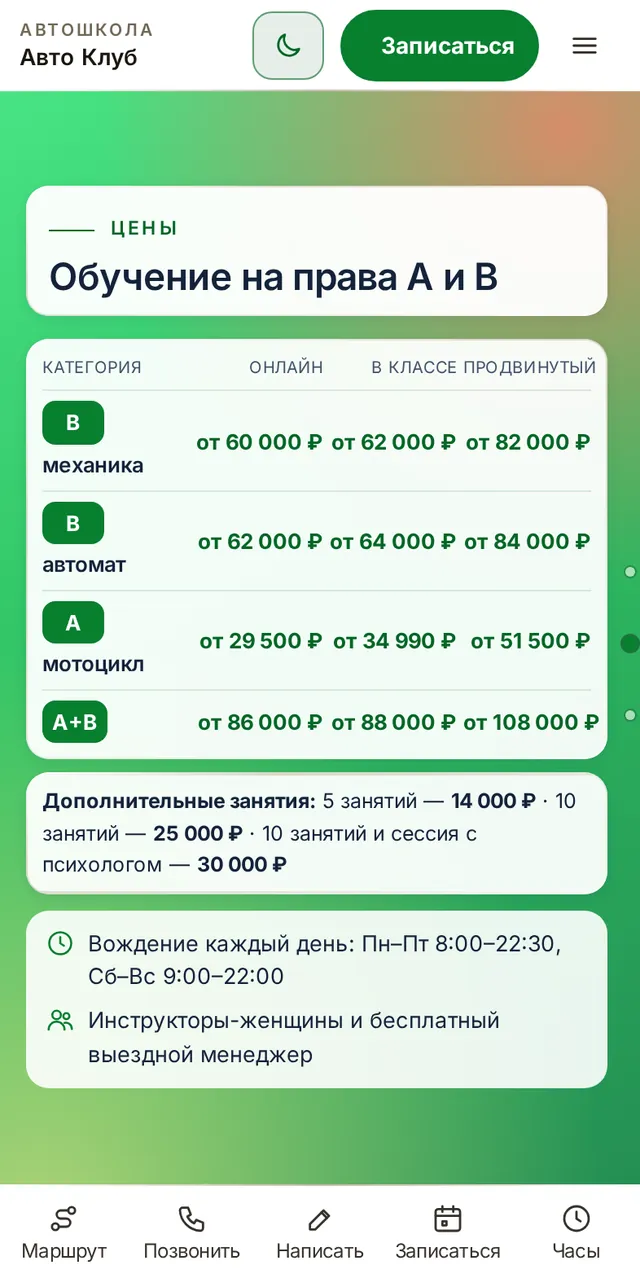
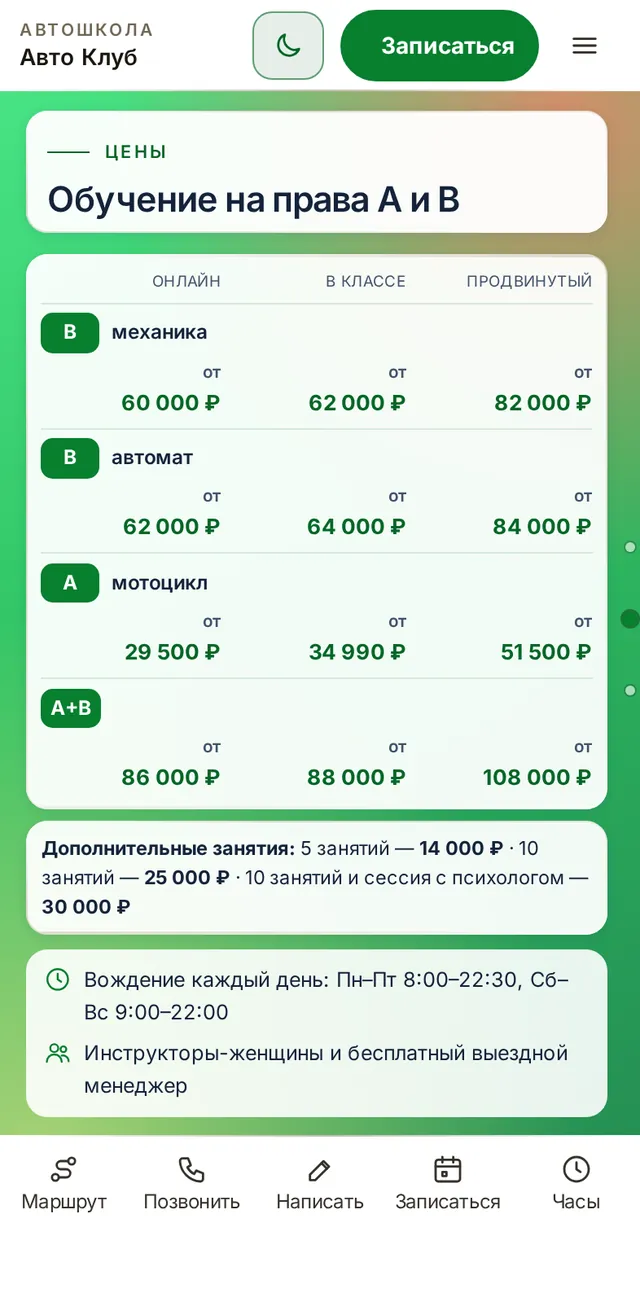
Текст не выходит за плашки: название первого экрана подгоняется под плашку, витрина показывает экраны целиком; цены на узких телефонах

diff --git a/vitrina/index.html b/vitrina/index.html
@@ -31,13 +31,14 @@ h1{text-wrap:balance;font-size:clamp(30px,3.4vw,48px);line-height:1.08;letter-sp
 .stage{position:relative;width:100%;aspect-ratio:16/11.2}
 .dv{position:absolute}
 .dv img{display:block;width:100%;height:100%;object-fit:cover;object-position:center top}
+.mon .scr img,.lap .scr img{height:auto}
 .mon{left:18%;top:0;width:68%}
-.mon .scr{aspect-ratio:16/9;padding:1.1%;background:#0e1116;border-radius:14px;box-shadow:0 30px 60px -20px rgba(20,35,58,.35)}
+.mon .scr{padding:1.1%;background:#0e1116;border-radius:14px;box-shadow:0 30px 60px -20px rgba(20,35,58,.35)}
 .mon .scr img{border-radius:6px}
 .mon .neck{width:14%;aspect-ratio:1/.95;margin:0 auto;background:linear-gradient(90deg,#c9d0d8,#eef1f4 45%,#c3cad2);clip-path:polygon(18% 0,82% 0,100% 100%,0 100%)}
 .mon .foot{width:36%;aspect-ratio:36/1.5;margin:-1px auto 0;border-radius:6px 6px 3px 3px;background:linear-gradient(180deg,#e9edf1,#b9c1ca);box-shadow:0 12px 20px -8px rgba(20,35,58,.4)}
 .lap{left:0;bottom:4%;width:46%}
-.lap .scr{aspect-ratio:16/10;padding:2.2% 2.2% 3%;background:#0b0d11;border-radius:16px 16px 4px 4px;position:relative;box-shadow:0 0 0 1px #2a2f37 inset}
+.lap .scr{padding:2.2% 2.2% 3%;background:#0b0d11;border-radius:16px 16px 4px 4px;position:relative;box-shadow:0 0 0 1px #2a2f37 inset}
 .lap .scr::before{content:"";position:absolute;top:1%;left:50%;width:.9%;aspect-ratio:1;border-radius:50%;background:#2b3442;transform:translateX(-50%)}
 .lap .scr img{border-radius:3px}
 .lap .base{position:relative;height:0;padding-bottom:3.2%;margin:0 -7%;background:linear-gradient(180deg,#e7ebef 0,#c8cfd7 60%,#9aa3ad 100%);border-radius:0 0 18px 18px/0 0 60% 60%;box-shadow:0 22px 30px -14px rgba(20,35,58,.45)}
@@ -80,7 +81,7 @@ h1{text-wrap:balance;font-size:clamp(30px,3.4vw,48px);line-height:1.08;letter-sp
   <div class="stage" id="stage" aria-label="Новый сайт на компьютере, ноутбуке и телефоне">
     <div class="dv mon"><div class="scr"><img src="img/monitor.webp?v=2" alt="" width="1600" height="900"></div><div class="neck"></div><div class="foot"></div></div>
     <div class="dv lap"><div class="scr"><img src="img/laptop.webp?v=2" alt="" width="1280" height="800"></div><div class="base"></div></div>
-    <div class="dv ph" id="ph"><div class="ss-phone z-phone" data-frame="pro" style="width: 340px; height: 714.953px; padding: 2.38318px; border-radius: 61.1682px; --ps: 0.794392523364486px;"><svg class="ss-phone__bands" width="100%" height="100%" aria-hidden="true"><defs><linearGradient id="ph-band" x1="0.2" y1="0" x2="0.8" y2="1"><stop offset="0" style="stop-color: var(--ss-phone-band-1);"></stop><stop offset="0.22" style="stop-color: var(--ss-phone-band-2);"></stop><stop offset="0.48" style="stop-color: var(--ss-phone-band-3);"></stop><stop offset="0.74" style="stop-color: var(--ss-phone-band-4);"></stop><stop offset="1" style="stop-color: var(--ss-phone-band-5);"></stop></linearGradient><linearGradient id="ph-clay" x1="0" y1="0" x2="0" y2="1"><stop offset="0" style="stop-color: var(--ss-phone-clay-top);"></stop><stop offset="1" style="stop-color: var(--ss-phone-clay-bottom);"></stop></linearGradient></defs><g transform="translate(10.327102803738317 10.327102803738317)" stroke-linejoin="round"><path d="M262.94 0.00L267.09 0.06L270.49 0.24L273.65 0.53L276.65 0.94L279.51 1.47L282.27 2.11L284.93 2.87L287.50 3.74L289.97 4.72L292.36 5.81L294.65 7.02L296.85 8.33L298.96 9.75L300.98 11.27L302.90 12.90L304.72 14.62L306.45 16.45L308.08 18.37L309.60 20.38L311.02 22.49L312.33 24.70L313.53 26.99L314.63 29.37L315.61 31.85L316.48 34.41L317.24 37.07L317.88 39.83L318.41 42.70L318.82 45.69L319.11 48.85L319.29 52.25L319.35 56.40L319.35 637.90L319.29 642.04L319.11 645.45L318.82 648.60L318.41 651.60L317.88 654.47L317.24 657.23L316.48 659.89L315.61 662.45L314.63 664.92L313.53 667.31L312.33 669.60L311.02 671.80L309.60 673.91L308.08 675.93L306.45 677.85L304.72 679.68L302.90 681.40L300.98 683.03L298.96 684.55L296.85 685.97L294.65 687.28L292.36 688.49L289.97 689.58L287.50 690.56L284.93 691.43L282.27 692.19L279.51 692.83L276.65 693.36L273.65 693.77L270.49 694.06L267.09 694.24L262.94 694.30L56.40 694.30L52.25 694.24L48.85 694.06L45.69 693.77L42.70 693.36L39.83 692.83L37.07 692.19L34.41 691.43L31.85 690.56L29.37 689.58L26.99 688.49L24.70 687.28L22.49 685.97L20.38 684.55L18.37 683.03L16.45 681.40L14.62 679.68L12.90 677.85L11.27 675.93L9.75 673.91L8.33 671.80L7.02 669.60L5.81 667.31L4.72 664.92L3.74 662.45L2.87 659.89L2.11 657.23L1.47 654.47L0.94 651.60L0.53 648.60L0.24 645.45L0.06 642.04L0.00 637.90L0.00 56.40L0.06 52.25L0.24 48.85L0.53 45.69L0.94 42.70L1.47 39.83L2.11 37.07L2.87 34.41L3.74 31.85L4.72 29.37L5.81 26.99L7.02 24.70L8.33 22.49L9.75 20.38L11.27 18.37L12.90 16.45L14.62 14.62L16.45 12.90L18.37 11.27L20.38 9.75L22.49 8.33L24.70 7.02L26.99 5.81L29.37 4.72L31.85 3.74L34.41 2.87L37.07 2.11L39.83 1.47L42.70 0.94L45.69 0.53L48.85 0.24L52.25 0.06L56.40 0.00Z" fill="none" stroke-width="20.654205607476634" stroke="url(#ph-band)"></path><path d="M262.94 0.00L267.09 0.06L270.49 0.24L273.65 0.53L276.65 0.94L279.51 1.47L282.27 2.11L284.93 2.87L287.50 3.74L289.97 4.72L292.36 5.81L294.65 7.02L296.85 8.33L298.96 9.75L300.98 11.27L302.90 12.90L304.72 14.62L306.45 16.45L308.08 18.37L309.60 20.38L311.02 22.49L312.33 24.70L313.53 26.99L314.63 29.37L315.61 31.85L316.48 34.41L317.24 37.07L317.88 39.83L318.41 42.70L318.82 45.69L319.11 48.85L319.29 52.25L319.35 56.40L319.35 637.90L319.29 642.04L319.11 645.45L318.82 648.60L318.41 651.60L317.88 654.47L317.24 657.23L316.48 659.89L315.61 662.45L314.63 664.92L313.53 667.31L312.33 669.60L311.02 671.80L309.60 673.91L308.08 675.93L306.45 677.85L304.72 679.68L302.90 681.40L300.98 683.03L298.96 684.55L296.85 685.97L294.65 687.28L292.36 688.49L289.97 689.58L287.50 690.56L284.93 691.43L282.27 692.19L279.51 692.83L276.65 693.36L273.65 693.77L270.49 694.06L267.09 694.24L262.94 694.30L56.40 694.30L52.25 694.24L48.85 694.06L45.69 693.77L42.70 693.36L39.83 692.83L37.07 692.19L34.41 691.43L31.85 690.56L29.37 689.58L26.99 688.49L24.70 687.28L22.49 685.97L20.38 684.55L18.37 683.03L16.45 681.40L14.62 679.68L12.90 677.85L11.27 675.93L9.75 673.91L8.33 671.80L7.02 669.60L5.81 667.31L4.72 664.92L3.74 662.45L2.87 659.89L2.11 657.23L1.47 654.47L0.94 651.60L0.53 648.60L0.24 645.45L0.06 642.04L0.00 637.90L0.00 56.40L0.06 52.25L0.24 48.85L0.53 45.69L0.94 42.70L1.47 39.83L2.11 37.07L2.87 34.41L3.74 31.85L4.72 29.37L5.81 26.99L7.02 24.70L8.33 22.49L9.75 20.38L11.27 18.37L12.90 16.45L14.62 14.62L16.45 12.90L18.37 11.27L20.38 9.75L22.49 8.33L24.70 7.02L26.99 5.81L29.37 4.72L31.85 3.74L34.41 2.87L37.07 2.11L39.83 1.47L42.70 0.94L45.69 0.53L48.85 0.24L52.25 0.06L56.40 0.00Z" fill="none" stroke-width="15.88785046728972" style="stroke: var(--ss-phone-rim);"></path><path d="M262.94 0.00L267.09 0.06L270.49 0.24L273.65 0.53L276.65 0.94L279.51 1.47L282.27 2.11L284.93 2.87L287.50 3.74L289.97 4.72L292.36 5.81L294.65 7.02L296.85 8.33L298.96 9.75L300.98 11.27L302.90 12.90L304.72 14.62L306.45 16.45L308.08 18.37L309.60 20.38L311.02 22.49L312.33 24.70L313.53 26.99L314.63 29.37L315.61 31.85L316.48 34.41L317.24 37.07L317.88 39.83L318.41 42.70L318.82 45.69L319.11 48.85L319.29 52.25L319.35 56.40L319.35 637.90L319.29 642.04L319.11 645.45L318.82 648.60L318.41 651.60L317.88 654.47L317.24 657.23L316.48 659.89L315.61 662.45L314.63 664.92L313.53 667.31L312.33 669.60L311.02 671.80L309.60 673.91L308.08 675.93L306.45 677.85L304.72 679.68L302.90 681.40L300.98 683.03L298.96 684.55L296.85 685.97L294.65 687.28L292.36 688.49L289.97 689.58L287.50 690.56L284.93 691.43L282.27 692.19L279.51 692.83L276.65 693.36L273.65 693.77L270.49 694.06L267.09 694.24L262.94 694.30L56.40 694.30L52.25 694.24L48.85 694.06L45.69 693.77L42.70 693.36L39.83 692.83L37.07 692.19L34.41 691.43L31.85 690.56L29.37 689.58L26.99 688.49L24.70 687.28L22.49 685.97L20.38 684.55L18.37 683.03L16.45 681.40L14.62 679.68L12.90 677.85L11.27 675.93L9.75 673.91L8.33 671.80L7.02 669.60L5.81 667.31L4.72 664.92L3.74 662.45L2.87 659.89L2.11 657.23L1.47 654.47L0.94 651.60L0.53 648.60L0.24 645.45L0.06 642.04L0.00 637.90L0.00 56.40L0.06 52.25L0.24 48.85L0.53 45.69L0.94 42.70L1.47 39.83L2.11 37.07L2.87 34.41L3.74 31.85L4.72 29.37L5.81 26.99L7.02 24.70L8.33 22.49L9.75 20.38L11.27 18.37L12.90 16.45L14.62 14.62L16.45 12.90L18.37 11.27L20.38 9.75L22.49 8.33L24.70 7.02L26.99 5.81L29.37 4.72L31.85 3.74L34.41 2.87L37.07 2.11L39.83 1.47L42.70 0.94L45.69 0.53L48.85 0.24L52.25 0.06L56.40 0.00Z" fill="none" stroke-width="14.69626168224299" style="stroke: var(--ss-phone-glass);"></path></g></svg><div class="ss-phone__glass" style="padding: 7.94393px; border-radius: 58.785px;"><div class="ss-phone__window" style="width: 319.346px; height: 694.299px; clip-path: path(&quot;M 262.94 0 L 267.09 0.06 L 270.49 0.24 L 273.65 0.53 L 276.65 0.94 L 279.51 1.47 L 282.27 2.11 L 284.93 2.87 L 287.5 3.74 L 289.97 4.72 L 292.36 5.81 L 294.65 7.02 L 296.85 8.33 L 298.96 9.75 L 300.98 11.27 L 302.9 12.9 L 304.72 14.62 L 306.45 16.45 L 308.08 18.37 L 309.6 20.38 L 311.02 22.49 L 312.33 24.7 L 313.53 26.99 L 314.63 29.37 L 315.61 31.85 L 316.48 34.41 L 317.24 37.07 L 317.88 39.83 L 318.41 42.7 L 318.82 45.69 L 319.11 48.85 L 319.29 52.25 L 319.35 56.4 L 319.35 637.9 L 319.29 642.04 L 319.11 645.45 L 318.82 648.6 L 318.41 651.6 L 317.88 654.47 L 317.24 657.23 L 316.48 659.89 L 315.61 662.45 L 314.63 664.92 L 313.53 667.31 L 312.33 669.6 L 311.02 671.8 L 309.6 673.91 L 308.08 675.93 L 306.45 677.85 L 304.72 679.68 L 302.9 681.4 L 300.98 683.03 L 298.96 684.55 L 296.85 685.97 L 294.65 687.28 L 292.36 688.49 L 289.97 689.58 L 287.5 690.56 L 284.93 691.43 L 282.27 692.19 L 279.51 692.83 L 276.65 693.36 L 273.65 693.77 L 270.49 694.06 L 267.09 694.24 L 262.94 694.3 L 56.4 694.3 L 52.25 694.24 L 48.85 694.06 L 45.69 693.77 L 42.7 693.36 L 39.83 692.83 L 37.07 692.19 L 34.41 691.43 L 31.85 690.56 L 29.37 689.58 L 26.99 688.49 L 24.7 687.28 L 22.49 685.97 L 20.38 684.55 L 18.37 683.03 L 16.45 681.4 L 14.62 679.68 L 12.9 677.85 L 11.27 675.93 L 9.75 673.91 L 8.33 671.8 L 7.02 669.6 L 5.81 667.31 L 4.72 664.92 L 3.74 662.45 L 2.87 659.89 L 2.11 657.23 L 1.47 654.47 L 0.94 651.6 L 0.53 648.6 L 0.24 645.45 L 0.06 642.04 L 0 637.9 L 0 56.4 L 0.06 52.25 L 0.24 48.85 L 0.53 45.69 L 0.94 42.7 L 1.47 39.83 L 2.11 37.07 L 2.87 34.41 L 3.74 31.85 L 4.72 29.37 L 5.81 26.99 L 7.02 24.7 L 8.33 22.49 L 9.75 20.38 L 11.27 18.37 L 12.9 16.45 L 14.62 14.62 L 16.45 12.9 L 18.37 11.27 L 20.38 9.75 L 22.49 8.33 L 24.7 7.02 L 26.99 5.81 L 29.37 4.72 L 31.85 3.74 L 34.41 2.87 L 37.07 2.11 L 39.83 1.47 L 42.7 0.94 L 45.69 0.53 L 48.85 0.24 L 52.25 0.06 L 56.4 0 Z&quot;);"><div class="ss-phone__screen" style="width: 402px; height: 874px; transform: scale(0.794393); --ss-screen-r: 64px;"><div class="ss-phone__status"><span class="ss-phone__time">10:02</span><span class="ss-phone__glyphs"><svg viewBox="0 0 20.33 13.67" width="20.33" height="13.67" class="ss-phone__glyph ss-phone__signal"><rect x="0" y="7.34" width="3.333" height="6.33" rx="1.667" fill="currentColor"></rect><rect x="5.667" y="5" width="3.333" height="8.67" rx="1.667" fill="currentColor"></rect><rect x="11.334" y="2.67" width="3.333" height="11" rx="1.667" fill="currentColor"></rect><rect x="17.000999999999998" y="0" width="3.333" height="13.67" rx="1.667" fill="currentColor"></rect></svg><svg viewBox="0 0 19.33 14.33" width="19.33" height="14.33" class="ss-phone__glyph ss-phone__wifi"><path fill-rule="evenodd" fill="currentColor" d="M0.415933 5.54283C0.902185 6.04412 1.66017 5.95818 2.27513 5.41393C4.30595 3.58064 6.83731 2.63535 9.66901 2.63535C12.5007 2.63535 15.0464 3.60928 17.0629 5.41393C17.6636 5.97251 18.4215 6.0298 18.9221 5.54283C19.4226 5.02722 19.4942 4.2538 18.9793 3.70954C16.8341 1.51819 13.3302 0 9.66901 0C6.00783 0 2.48965 1.53251 0.358727 3.72387C-0.156127 4.2538 -0.0989213 5.02722 0.415933 5.55715L0.415933 5.54283ZM3.94841 9.13779C4.50617 9.68205 5.22124 9.62476 5.85051 9.10915C6.88022 8.29276 8.25316 7.73418 9.66901 7.7485C11.0706 7.7485 12.4435 8.29276 13.4875 9.12347C14.1168 9.63908 14.8605 9.66773 15.4039 9.12347C15.9331 8.57921 16.0189 7.7485 15.4611 7.23289C14.0739 5.98683 11.9859 5.11315 9.68332 5.11315C7.38077 5.11315 5.27845 5.98683 3.9055 7.23289C3.41925 7.69121 3.31914 8.47896 3.96271 9.13779L3.94841 9.13779ZM8.72511 13.8929C9.34008 14.4801 9.98365 14.4801 10.5986 13.8929L11.757 12.7757C12.372 12.1742 12.5007 11.4151 11.7999 10.8995C11.2136 10.4841 10.4699 10.212 9.66901 10.212C8.86813 10.212 8.11015 10.4841 7.53809 10.9138C6.83731 11.4151 6.98033 12.1885 7.59529 12.7757L8.73942 13.8929L8.72511 13.8929Z"></path></svg><svg viewBox="0 0 29.33 13.67" width="29.33" height="13.67" class="ss-phone__glyph ss-phone__battery"><path fill="currentColor" d="M0 6.4C0 4.15979 0 3.03969 0.435974 2.18404C0.819467 1.43139 1.43139 0.819467 2.18404 0.435974C3.03969 0 4.15979 0 6.4 0L19.933 0C22.1732 0 23.2933 0 24.149 0.435974C24.9016 0.819467 25.5135 1.43139 25.897 2.18404C26.333 3.03969 26.333 4.15979 26.333 6.4L26.333 7.26666C26.333 9.50687 26.333 10.627 25.897 11.4826C25.5135 12.2353 24.9016 12.8472 24.149 13.2307C23.2933 13.6667 22.1732 13.6667 19.933 13.6667L6.4 13.6667C4.15979 13.6667 3.03969 13.6667 2.18404 13.2307C1.43139 12.8472 0.819467 12.2353 0.435974 11.4826C0 10.627 0 9.50687 0 7.26666L0 6.4Z"></path><path fill-rule="evenodd" fill="currentColor" transform="translate(27.33 4.33)" d="M0 0L0 5C0.601505 4.8625 2 3.75 2 2.5C2 1.25 0.601505 0.1375 0 0Z"></path></svg></span></div><span class="ss-phone__island"></span><div class="ss-phone__content" data-status="true"><img class="ph-shot" src="img/phone.webp?v=2" alt="Новый сайт автошколы «Авто Клуб» на телефоне" width="393" height="790"></div><span class="ss-phone__home"></span></div></div></div></div></div>
+    <div class="dv ph" id="ph"><div class="ss-phone z-phone" data-frame="pro" style="width: 340px; height: 714.953px; padding: 2.38318px; border-radius: 61.1682px; --ps: 0.794392523364486px;"><svg class="ss-phone__bands" width="100%" height="100%" aria-hidden="true"><defs><linearGradient id="ph-band" x1="0.2" y1="0" x2="0.8" y2="1"><stop offset="0" style="stop-color: var(--ss-phone-band-1);"></stop><stop offset="0.22" style="stop-color: var(--ss-phone-band-2);"></stop><stop offset="0.48" style="stop-color: var(--ss-phone-band-3);"></stop><stop offset="0.74" style="stop-color: var(--ss-phone-band-4);"></stop><stop offset="1" style="stop-color: var(--ss-phone-band-5);"></stop></linearGradient><linearGradient id="ph-clay" x1="0" y1="0" x2="0" y2="1"><stop offset="0" style="stop-color: var(--ss-phone-clay-top);"></stop><stop offset="1" style="stop-color: var(--ss-phone-clay-bottom);"></stop></linearGradient></defs><g transform="translate(10.327102803738317 10.327102803738317)" stroke-linejoin="round"><path d="M262.94 0.00L267.09 0.06L270.49 0.24L273.65 0.53L276.65 0.94L279.51 1.47L282.27 2.11L284.93 2.87L287.50 3.74L289.97 4.72L292.36 5.81L294.65 7.02L296.85 8.33L298.96 9.75L300.98 11.27L302.90 12.90L304.72 14.62L306.45 16.45L308.08 18.37L309.60 20.38L311.02 22.49L312.33 24.70L313.53 26.99L314.63 29.37L315.61 31.85L316.48 34.41L317.24 37.07L317.88 39.83L318.41 42.70L318.82 45.69L319.11 48.85L319.29 52.25L319.35 56.40L319.35 637.90L319.29 642.04L319.11 645.45L318.82 648.60L318.41 651.60L317.88 654.47L317.24 657.23L316.48 659.89L315.61 662.45L314.63 664.92L313.53 667.31L312.33 669.60L311.02 671.80L309.60 673.91L308.08 675.93L306.45 677.85L304.72 679.68L302.90 681.40L300.98 683.03L298.96 684.55L296.85 685.97L294.65 687.28L292.36 688.49L289.97 689.58L287.50 690.56L284.93 691.43L282.27 692.19L279.51 692.83L276.65 693.36L273.65 693.77L270.49 694.06L267.09 694.24L262.94 694.30L56.40 694.30L52.25 694.24L48.85 694.06L45.69 693.77L42.70 693.36L39.83 692.83L37.07 692.19L34.41 691.43L31.85 690.56L29.37 689.58L26.99 688.49L24.70 687.28L22.49 685.97L20.38 684.55L18.37 683.03L16.45 681.40L14.62 679.68L12.90 677.85L11.27 675.93L9.75 673.91L8.33 671.80L7.02 669.60L5.81 667.31L4.72 664.92L3.74 662.45L2.87 659.89L2.11 657.23L1.47 654.47L0.94 651.60L0.53 648.60L0.24 645.45L0.06 642.04L0.00 637.90L0.00 56.40L0.06 52.25L0.24 48.85L0.53 45.69L0.94 42.70L1.47 39.83L2.11 37.07L2.87 34.41L3.74 31.85L4.72 29.37L5.81 26.99L7.02 24.70L8.33 22.49L9.75 20.38L11.27 18.37L12.90 16.45L14.62 14.62L16.45 12.90L18.37 11.27L20.38 9.75L22.49 8.33L24.70 7.02L26.99 5.81L29.37 4.72L31.85 3.74L34.41 2.87L37.07 2.11L39.83 1.47L42.70 0.94L45.69 0.53L48.85 0.24L52.25 0.06L56.40 0.00Z" fill="none" stroke-width="20.654205607476634" stroke="url(#ph-band)"></path><path d="M262.94 0.00L267.09 0.06L270.49 0.24L273.65 0.53L276.65 0.94L279.51 1.47L282.27 2.11L284.93 2.87L287.50 3.74L289.97 4.72L292.36 5.81L294.65 7.02L296.85 8.33L298.96 9.75L300.98 11.27L302.90 12.90L304.72 14.62L306.45 16.45L308.08 18.37L309.60 20.38L311.02 22.49L312.33 24.70L313.53 26.99L314.63 29.37L315.61 31.85L316.48 34.41L317.24 37.07L317.88 39.83L318.41 42.70L318.82 45.69L319.11 48.85L319.29 52.25L319.35 56.40L319.35 637.90L319.29 642.04L319.11 645.45L318.82 648.60L318.41 651.60L317.88 654.47L317.24 657.23L316.48 659.89L315.61 662.45L314.63 664.92L313.53 667.31L312.33 669.60L311.02 671.80L309.60 673.91L308.08 675.93L306.45 677.85L304.72 679.68L302.90 681.40L300.98 683.03L298.96 684.55L296.85 685.97L294.65 687.28L292.36 688.49L289.97 689.58L287.50 690.56L284.93 691.43L282.27 692.19L279.51 692.83L276.65 693.36L273.65 693.77L270.49 694.06L267.09 694.24L262.94 694.30L56.40 694.30L52.25 694.24L48.85 694.06L45.69 693.77L42.70 693.36L39.83 692.83L37.07 692.19L34.41 691.43L31.85 690.56L29.37 689.58L26.99 688.49L24.70 687.28L22.49 685.97L20.38 684.55L18.37 683.03L16.45 681.40L14.62 679.68L12.90 677.85L11.27 675.93L9.75 673.91L8.33 671.80L7.02 669.60L5.81 667.31L4.72 664.92L3.74 662.45L2.87 659.89L2.11 657.23L1.47 654.47L0.94 651.60L0.53 648.60L0.24 645.45L0.06 642.04L0.00 637.90L0.00 56.40L0.06 52.25L0.24 48.85L0.53 45.69L0.94 42.70L1.47 39.83L2.11 37.07L2.87 34.41L3.74 31.85L4.72 29.37L5.81 26.99L7.02 24.70L8.33 22.49L9.75 20.38L11.27 18.37L12.90 16.45L14.62 14.62L16.45 12.90L18.37 11.27L20.38 9.75L22.49 8.33L24.70 7.02L26.99 5.81L29.37 4.72L31.85 3.74L34.41 2.87L37.07 2.11L39.83 1.47L42.70 0.94L45.69 0.53L48.85 0.24L52.25 0.06L56.40 0.00Z" fill="none" stroke-width="15.88785046728972" style="stroke: var(--ss-phone-rim);"></path><path d="M262.94 0.00L267.09 0.06L270.49 0.24L273.65 0.53L276.65 0.94L279.51 1.47L282.27 2.11L284.93 2.87L287.50 3.74L289.97 4.72L292.36 5.81L294.65 7.02L296.85 8.33L298.96 9.75L300.98 11.27L302.90 12.90L304.72 14.62L306.45 16.45L308.08 18.37L309.60 20.38L311.02 22.49L312.33 24.70L313.53 26.99L314.63 29.37L315.61 31.85L316.48 34.41L317.24 37.07L317.88 39.83L318.41 42.70L318.82 45.69L319.11 48.85L319.29 52.25L319.35 56.40L319.35 637.90L319.29 642.04L319.11 645.45L318.82 648.60L318.41 651.60L317.88 654.47L317.24 657.23L316.48 659.89L315.61 662.45L314.63 664.92L313.53 667.31L312.33 669.60L311.02 671.80L309.60 673.91L308.08 675.93L306.45 677.85L304.72 679.68L302.90 681.40L300.98 683.03L298.96 684.55L296.85 685.97L294.65 687.28L292.36 688.49L289.97 689.58L287.50 690.56L284.93 691.43L282.27 692.19L279.51 692.83L276.65 693.36L273.65 693.77L270.49 694.06L267.09 694.24L262.94 694.30L56.40 694.30L52.25 694.24L48.85 694.06L45.69 693.77L42.70 693.36L39.83 692.83L37.07 692.19L34.41 691.43L31.85 690.56L29.37 689.58L26.99 688.49L24.70 687.28L22.49 685.97L20.38 684.55L18.37 683.03L16.45 681.40L14.62 679.68L12.90 677.85L11.27 675.93L9.75 673.91L8.33 671.80L7.02 669.60L5.81 667.31L4.72 664.92L3.74 662.45L2.87 659.89L2.11 657.23L1.47 654.47L0.94 651.60L0.53 648.60L0.24 645.45L0.06 642.04L0.00 637.90L0.00 56.40L0.06 52.25L0.24 48.85L0.53 45.69L0.94 42.70L1.47 39.83L2.11 37.07L2.87 34.41L3.74 31.85L4.72 29.37L5.81 26.99L7.02 24.70L8.33 22.49L9.75 20.38L11.27 18.37L12.90 16.45L14.62 14.62L16.45 12.90L18.37 11.27L20.38 9.75L22.49 8.33L24.70 7.02L26.99 5.81L29.37 4.72L31.85 3.74L34.41 2.87L37.07 2.11L39.83 1.47L42.70 0.94L45.69 0.53L48.85 0.24L52.25 0.06L56.40 0.00Z" fill="none" stroke-width="14.69626168224299" style="stroke: var(--ss-phone-glass);"></path></g></svg><div class="ss-phone__glass" style="padding: 7.94393px; border-radius: 58.785px;"><div class="ss-phone__window" style="width: 319.346px; height: 694.299px; clip-path: path(&quot;M 262.94 0 L 267.09 0.06 L 270.49 0.24 L 273.65 0.53 L 276.65 0.94 L 279.51 1.47 L 282.27 2.11 L 284.93 2.87 L 287.5 3.74 L 289.97 4.72 L 292.36 5.81 L 294.65 7.02 L 296.85 8.33 L 298.96 9.75 L 300.98 11.27 L 302.9 12.9 L 304.72 14.62 L 306.45 16.45 L 308.08 18.37 L 309.6 20.38 L 311.02 22.49 L 312.33 24.7 L 313.53 26.99 L 314.63 29.37 L 315.61 31.85 L 316.48 34.41 L 317.24 37.07 L 317.88 39.83 L 318.41 42.7 L 318.82 45.69 L 319.11 48.85 L 319.29 52.25 L 319.35 56.4 L 319.35 637.9 L 319.29 642.04 L 319.11 645.45 L 318.82 648.6 L 318.41 651.6 L 317.88 654.47 L 317.24 657.23 L 316.48 659.89 L 315.61 662.45 L 314.63 664.92 L 313.53 667.31 L 312.33 669.6 L 311.02 671.8 L 309.6 673.91 L 308.08 675.93 L 306.45 677.85 L 304.72 679.68 L 302.9 681.4 L 300.98 683.03 L 298.96 684.55 L 296.85 685.97 L 294.65 687.28 L 292.36 688.49 L 289.97 689.58 L 287.5 690.56 L 284.93 691.43 L 282.27 692.19 L 279.51 692.83 L 276.65 693.36 L 273.65 693.77 L 270.49 694.06 L 267.09 694.24 L 262.94 694.3 L 56.4 694.3 L 52.25 694.24 L 48.85 694.06 L 45.69 693.77 L 42.7 693.36 L 39.83 692.83 L 37.07 692.19 L 34.41 691.43 L 31.85 690.56 L 29.37 689.58 L 26.99 688.49 L 24.7 687.28 L 22.49 685.97 L 20.38 684.55 L 18.37 683.03 L 16.45 681.4 L 14.62 679.68 L 12.9 677.85 L 11.27 675.93 L 9.75 673.91 L 8.33 671.8 L 7.02 669.6 L 5.81 667.31 L 4.72 664.92 L 3.74 662.45 L 2.87 659.89 L 2.11 657.23 L 1.47 654.47 L 0.94 651.6 L 0.53 648.6 L 0.24 645.45 L 0.06 642.04 L 0 637.9 L 0 56.4 L 0.06 52.25 L 0.24 48.85 L 0.53 45.69 L 0.94 42.7 L 1.47 39.83 L 2.11 37.07 L 2.87 34.41 L 3.74 31.85 L 4.72 29.37 L 5.81 26.99 L 7.02 24.7 L 8.33 22.49 L 9.75 20.38 L 11.27 18.37 L 12.9 16.45 L 14.62 14.62 L 16.45 12.9 L 18.37 11.27 L 20.38 9.75 L 22.49 8.33 L 24.7 7.02 L 26.99 5.81 L 29.37 4.72 L 31.85 3.74 L 34.41 2.87 L 37.07 2.11 L 39.83 1.47 L 42.7 0.94 L 45.69 0.53 L 48.85 0.24 L 52.25 0.06 L 56.4 0 Z&quot;);"><div class="ss-phone__screen" style="width: 402px; height: 874px; transform: scale(0.794393); --ss-screen-r: 64px;"><div class="ss-phone__status"><span class="ss-phone__time">10:02</span><span class="ss-phone__glyphs"><svg viewBox="0 0 20.33 13.67" width="20.33" height="13.67" class="ss-phone__glyph ss-phone__signal"><rect x="0" y="7.34" width="3.333" height="6.33" rx="1.667" fill="currentColor"></rect><rect x="5.667" y="5" width="3.333" height="8.67" rx="1.667" fill="currentColor"></rect><rect x="11.334" y="2.67" width="3.333" height="11" rx="1.667" fill="currentColor"></rect><rect x="17.000999999999998" y="0" width="3.333" height="13.67" rx="1.667" fill="currentColor"></rect></svg><svg viewBox="0 0 19.33 14.33" width="19.33" height="14.33" class="ss-phone__glyph ss-phone__wifi"><path fill-rule="evenodd" fill="currentColor" d="M0.415933 5.54283C0.902185 6.04412 1.66017 5.95818 2.27513 5.41393C4.30595 3.58064 6.83731 2.63535 9.66901 2.63535C12.5007 2.63535 15.0464 3.60928 17.0629 5.41393C17.6636 5.97251 18.4215 6.0298 18.9221 5.54283C19.4226 5.02722 19.4942 4.2538 18.9793 3.70954C16.8341 1.51819 13.3302 0 9.66901 0C6.00783 0 2.48965 1.53251 0.358727 3.72387C-0.156127 4.2538 -0.0989213 5.02722 0.415933 5.55715L0.415933 5.54283ZM3.94841 9.13779C4.50617 9.68205 5.22124 9.62476 5.85051 9.10915C6.88022 8.29276 8.25316 7.73418 9.66901 7.7485C11.0706 7.7485 12.4435 8.29276 13.4875 9.12347C14.1168 9.63908 14.8605 9.66773 15.4039 9.12347C15.9331 8.57921 16.0189 7.7485 15.4611 7.23289C14.0739 5.98683 11.9859 5.11315 9.68332 5.11315C7.38077 5.11315 5.27845 5.98683 3.9055 7.23289C3.41925 7.69121 3.31914 8.47896 3.96271 9.13779L3.94841 9.13779ZM8.72511 13.8929C9.34008 14.4801 9.98365 14.4801 10.5986 13.8929L11.757 12.7757C12.372 12.1742 12.5007 11.4151 11.7999 10.8995C11.2136 10.4841 10.4699 10.212 9.66901 10.212C8.86813 10.212 8.11015 10.4841 7.53809 10.9138C6.83731 11.4151 6.98033 12.1885 7.59529 12.7757L8.73942 13.8929L8.72511 13.8929Z"></path></svg><svg viewBox="0 0 29.33 13.67" width="29.33" height="13.67" class="ss-phone__glyph ss-phone__battery"><path fill="currentColor" d="M0 6.4C0 4.15979 0 3.03969 0.435974 2.18404C0.819467 1.43139 1.43139 0.819467 2.18404 0.435974C3.03969 0 4.15979 0 6.4 0L19.933 0C22.1732 0 23.2933 0 24.149 0.435974C24.9016 0.819467 25.5135 1.43139 25.897 2.18404C26.333 3.03969 26.333 4.15979 26.333 6.4L26.333 7.26666C26.333 9.50687 26.333 10.627 25.897 11.4826C25.5135 12.2353 24.9016 12.8472 24.149 13.2307C23.2933 13.6667 22.1732 13.6667 19.933 13.6667L6.4 13.6667C4.15979 13.6667 3.03969 13.6667 2.18404 13.2307C1.43139 12.8472 0.819467 12.2353 0.435974 11.4826C0 10.627 0 9.50687 0 7.26666L0 6.4Z"></path><path fill-rule="evenodd" fill="currentColor" transform="translate(27.33 4.33)" d="M0 0L0 5C0.601505 4.8625 2 3.75 2 2.5C2 1.25 0.601505 0.1375 0 0Z"></path></svg></span></div><span class="ss-phone__island"></span><div class="ss-phone__content" data-status="true"><img class="ph-shot" src="img/phone.webp?v=2" alt="Новый сайт автошколы «Авто Клуб» на телефоне" width="393" height="794"></div><span class="ss-phone__home"></span></div></div></div></div></div>
   </div>
 </main>
 <p class="note">Сайт сделан веб-агентством «Всети» по материалам открытого сайта автошколы.</p>

diff --git a/index.html b/index.html
@@ -727,10 +727,10 @@ html[data-hc="1"] :focus-visible{outline:3px solid #ffe14d;outline-offset:2px}
         <div class="sec-head glass glow"><span class="kicker rv" style="--i:0">Цены</span><h2 class="h2 rv" style="--i:1">Обучение на права A и B</h2></div>
         <div class="cbox ac-tbl rv">
           <div class="ac-tr ac-th"><span>Категория</span><span>Онлайн</span><span>В классе</span><span>Продвинутый</span></div>
-          <div class="ac-tr"><span class="ac-c"><i>B</i>механика<small>28 занятий вождения</small></span><b>от&nbsp;60&nbsp;000&nbsp;₽</b><b>от&nbsp;62&nbsp;000&nbsp;₽</b><b>от&nbsp;82&nbsp;000&nbsp;₽</b></div>
-          <div class="ac-tr"><span class="ac-c"><i>B</i>автомат<small>27 занятий вождения</small></span><b>от&nbsp;62&nbsp;000&nbsp;₽</b><b>от&nbsp;64&nbsp;000&nbsp;₽</b><b>от&nbsp;84&nbsp;000&nbsp;₽</b></div>
-          <div class="ac-tr"><span class="ac-c"><i>A</i>мотоцикл<small>4 занятия вождения</small></span><b>от&nbsp;29&nbsp;500&nbsp;₽</b><b>от&nbsp;34&nbsp;990&nbsp;₽</b><b>от&nbsp;51&nbsp;500&nbsp;₽</b></div>
-          <div class="ac-tr"><span class="ac-c"><i>A+B</i><small>две категории</small></span><b>от&nbsp;86&nbsp;000&nbsp;₽</b><b>от&nbsp;88&nbsp;000&nbsp;₽</b><b>от&nbsp;108&nbsp;000&nbsp;₽</b></div>
+          <div class="ac-tr"><span class="ac-c"><i>B</i>механика<small>28 занятий вождения</small></span><b><span class="ot">от </span>60&nbsp;000&nbsp;₽</b><b><span class="ot">от </span>62&nbsp;000&nbsp;₽</b><b><span class="ot">от </span>82&nbsp;000&nbsp;₽</b></div>
+          <div class="ac-tr"><span class="ac-c"><i>B</i>автомат<small>27 занятий вождения</small></span><b><span class="ot">от </span>62&nbsp;000&nbsp;₽</b><b><span class="ot">от </span>64&nbsp;000&nbsp;₽</b><b><span class="ot">от </span>84&nbsp;000&nbsp;₽</b></div>
+          <div class="ac-tr"><span class="ac-c"><i>A</i>мотоцикл<small>4 занятия вождения</small></span><b><span class="ot">от </span>29&nbsp;500&nbsp;₽</b><b><span class="ot">от </span>34&nbsp;990&nbsp;₽</b><b><span class="ot">от </span>51&nbsp;500&nbsp;₽</b></div>
+          <div class="ac-tr"><span class="ac-c"><i>A+B</i><small>две категории</small></span><b><span class="ot">от </span>86&nbsp;000&nbsp;₽</b><b><span class="ot">от </span>88&nbsp;000&nbsp;₽</b><b><span class="ot">от </span>108&nbsp;000&nbsp;₽</b></div>
         </div>
         <div class="cbox ac-extra rv" style="--i:2"><b>Дополнительные занятия:</b> 5 занятий — <b>14&nbsp;000&nbsp;₽</b> · 10 занятий — <b>25&nbsp;000&nbsp;₽</b> · 10 занятий и сессия с психологом — <b>30&nbsp;000&nbsp;₽</b></div>
         <ul class="a4-notes rv"><li><svg class="ico"><use href="#ico-check"/></svg>В пакет входят свидетельство гос. образца и сопровождение на экзамен в ГИБДД на учебном автомобиле</li><li><svg class="ico"><use href="#ico-clock"/></svg><span>Вождение каждый день: <span class="nw">Пн–Пт 8:00–22:30</span>, <span class="nw">Сб–Вс 9:00–22:00</span></span></li><li><svg class="ico"><use href="#ico-card"/></svg>Беспроцентная рассрочка — оплата в три этапа</li><li><svg class="ico"><use href="#ico-users"/></svg>Инструкторы-женщины и бесплатный выездной менеджер</li></ul>
@@ -1867,6 +1867,7 @@ html[data-hc="1"] :focus-visible{outline:3px solid #ffe14d;outline-offset:2px}
 <script src="js/clouds.js" defer></script>
 <script src="js/gulls.js" defer></script>
 <script src="js/title-b.js" defer></script>
+<script src="js/fit-title.js" defer></script>
 <script src="js/diag.js?v=1"></script>
 </body>
 </html>

diff --git a/js/fit-title.js b/js/fit-title.js
@@ -1,0 +1,32 @@
+/* Название школы на первом экране всегда целиком внутри плашки (правило Сергея 13.11).
+   Слово набрано в одну строку (.hw, white-space:nowrap); если при заданном в CSS размере оно шире
+   строки заголовка, шрифт уменьшается ровно до ширины. Пересчёт — после загрузки шрифтов, при смене
+   ширины плашки, темы, контраста и размера шрифта (А−/А+). Меряется копия слова без анимации букв. */
+(function () {
+  'use strict';
+  var word = document.getElementById('heroWord');
+  if (!word || !word.parentElement) return;
+  var line = word.parentElement, raf = 0;
+  function fit() {
+    raf = 0;
+    word.style.fontSize = '';
+    var avail = line.clientWidth;
+    if (!avail) return;
+    var probe = document.createElement('span');
+    probe.className = word.className;
+    probe.textContent = word.getAttribute('aria-label') || word.textContent;
+    probe.setAttribute('aria-hidden', 'true');
+    probe.style.cssText = 'position:absolute;left:0;top:0;visibility:hidden;white-space:nowrap;display:inline-block;animation:none;opacity:0;pointer-events:none';
+    line.appendChild(probe);
+    var need = probe.getBoundingClientRect().width, size = parseFloat(getComputedStyle(probe).fontSize);
+    line.removeChild(probe);
+    if (need > avail && size) word.style.fontSize = Math.floor(size * avail / need * 0.97 * 10) / 10 + 'px';
+  }
+  function later() { if (!raf) raf = requestAnimationFrame(fit); }
+  fit();
+  if (document.fonts && document.fonts.ready) document.fonts.ready.then(later);
+  window.addEventListener('load', later);
+  window.addEventListener('resize', later);
+  if (window.ResizeObserver) new ResizeObserver(later).observe(line);
+  if (window.MutationObserver) new MutationObserver(later).observe(document.documentElement, { attributes: true, attributeFilter: ['style', 'class', 'data-theme', 'data-hc'] });
+})();

diff --git a/css/avtoclub.css b/css/avtoclub.css
@@ -253,3 +253,13 @@ html[data-theme="dark"] .acm-lbl{fill:rgba(255,255,255,.8)}
   #contacts .vl-ol li>span:first-child::after{content:" · "}
   #contacts .vl-offs{padding:4px 12px}
 }
+
+/* текст не выходит за плашки (Сергей 13.11): на телефоне у таблицы с тремя ценами категория — строкой над ценами, «от» — над суммой */
+@media (max-width:767px){
+  .ac-tbl:not(.ac-c1,.ac-c2) .ac-tr{grid-template-columns:repeat(3,minmax(0,1fr));row-gap:4px}
+  .ac-tbl:not(.ac-c1,.ac-c2) .ac-tr .ac-c{grid-column:1/-1}
+  .ac-tbl:not(.ac-c1,.ac-c2) .ac-th span:first-child{display:none}
+  .ac-th span{overflow-wrap:anywhere}
+  .ac-tbl:not(.ac-c1,.ac-c2) .ac-tr>b{white-space:normal;font-size:14px}
+  .ac-tr>b .ot{display:block;font-size:11px;font-weight:600;color:var(--muted)}
+}
